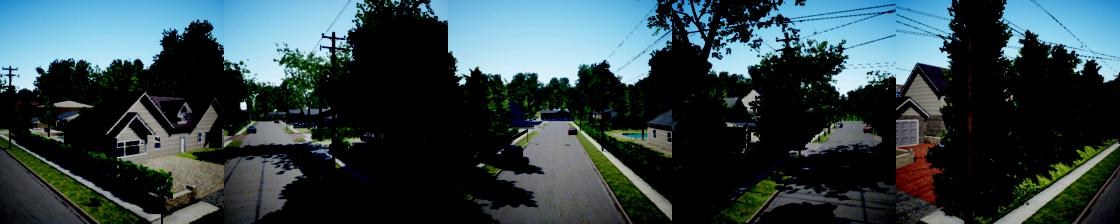
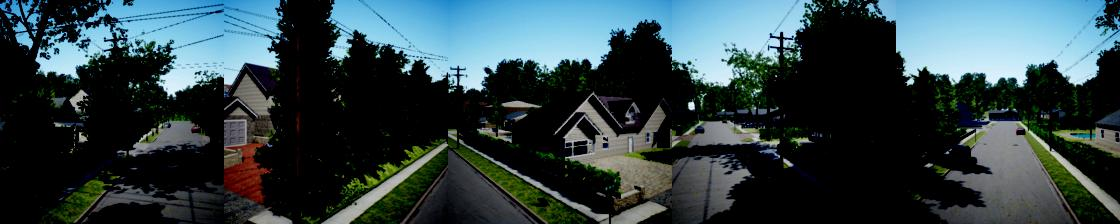
updated

diff --git a/pysrc/common/data_transform_model.py b/pysrc/common/data_transform_model.py
@@ -35,7 +35,7 @@ class DataTransform():
         slide = random.randint(0, len(img_path_list)-1)
         rand_img_list = [img_path_list[-len(img_path_list)+i+slide] for i in range(len(img_path_list))]
         camera_angle = 2*math.pi/len(img_path_list)*slide
-        camera_angle = -camera_angle	#NEU->NEU
+        # camera_angle = -camera_angle	#NED->NEU
         # print("slide = ", slide)
         # print("camera_angle/math.pi*180 = ", camera_angle/math.pi*180)
         return rand_img_list, camera_angle
@@ -46,7 +46,8 @@ class DataTransform():
             if i == 0:
                 combined_img_tensor = img_tensor
             else:
-                combined_img_tensor = torch.cat((combined_img_tensor, img_tensor), dim=2)
+                # combined_img_tensor = torch.cat((combined_img_tensor, img_tensor), dim=2)
+                combined_img_tensor = torch.cat((img_tensor, combined_img_tensor), dim=2)
         return combined_img_tensor
 
     def rotateVector(self, acc_numpy, camera_angle):
@@ -72,10 +73,10 @@ class DataTransform():
 # ## image
 # img_path_list = [
 #     "../../../dataset_image_to_gravity/AirSim/5cam/example/camera_0.jpg",
-#     "../../../dataset_image_to_gravity/AirSim/5cam/example/camera_72.jpg",
-#     "../../../dataset_image_to_gravity/AirSim/5cam/example/camera_144.jpg",
+#     "../../../dataset_image_to_gravity/AirSim/5cam/example/camera_288.jpg",
 #     "../../../dataset_image_to_gravity/AirSim/5cam/example/camera_216.jpg",
-#     "../../../dataset_image_to_gravity/AirSim/5cam/example/camera_288.jpg"
+#     "../../../dataset_image_to_gravity/AirSim/5cam/example/camera_144.jpg",
+#     "../../../dataset_image_to_gravity/AirSim/5cam/example/camera_72.jpg"
 # ]
 # ## label
 # acc_list = [1, 0, 0]
@@ -95,7 +96,7 @@ class DataTransform():
 # print("saved: ", save_path)
 # ## imshow
 # for i in range(len(img_path_list)):
-#     plt.subplot2grid((2, len(img_path_list)), (0, i))
+#     plt.subplot2grid((2, len(img_path_list)), (0, len(img_path_list)-i-1))
 #     plt.imshow(Image.open(img_path_list[i]))
 # plt.subplot2grid((2, len(img_path_list)), (1, 0), colspan=len(img_path_list))
 # plt.imshow(img_trans_numpy)

diff --git a/pysrc/regression_single_image_train/make_datapath_list.py b/pysrc/regression_single_image_train/make_datapath_list.py
@@ -12,7 +12,7 @@ def makeDatapathList(rootpath, csv_name):
             for i in range(3, len(row)):
                 row[i] = os.path.join(rootpath, row[i])
                 camera_angle = 2*math.pi/len(row[3:])*(i-3)
-                camera_angle = -camera_angle    #NED->NEU
+                # camera_angle = -camera_angle    #NED->NEU
                 rot_acc_list = rotateVector(row[:3], camera_angle)
                 data = rot_acc_list + [row[i]]
                 data_list.append(data)

diff --git a/pysrc/regression/train.py b/pysrc/regression/train.py
@@ -8,9 +8,12 @@ import torch.nn as nn
 import torch.optim as optim
 from tensorboardX import SummaryWriter
 
-import make_datapath_list
-import data_transform_model
-import dataset_model
+import sys
+sys.path.append('../')
+
+from common import make_datapath_list
+from common import data_transform_model
+from common import dataset_model
 import network
 
 class TrainModel:

diff --git a/pysrc/regression/inference.py b/pysrc/regression/inference.py
@@ -8,9 +8,12 @@ import torch
 from torchvision import models
 import torch.nn as nn
 
-import make_datapath_list
-import data_transform_model
-import dataset_model
+import sys
+sys.path.append('../')
+
+from common import make_datapath_list
+from common import data_transform_model
+from common import dataset_model
 import network
 
 class Sample:

diff --git a/pysrc/regression/network.py b/pysrc/regression/network.py
@@ -57,7 +57,9 @@ class OriginalNet(nn.Module):
         return x
 
 ##### test #####
-# import data_transform_model
+# import sys
+# sys.path.append('../')
+# from common import data_transform_model
 # ## image
 # img_path_list = [
 #     "../../../dataset_image_to_gravity/AirSim/5cam/example/camera_0.jpg",
